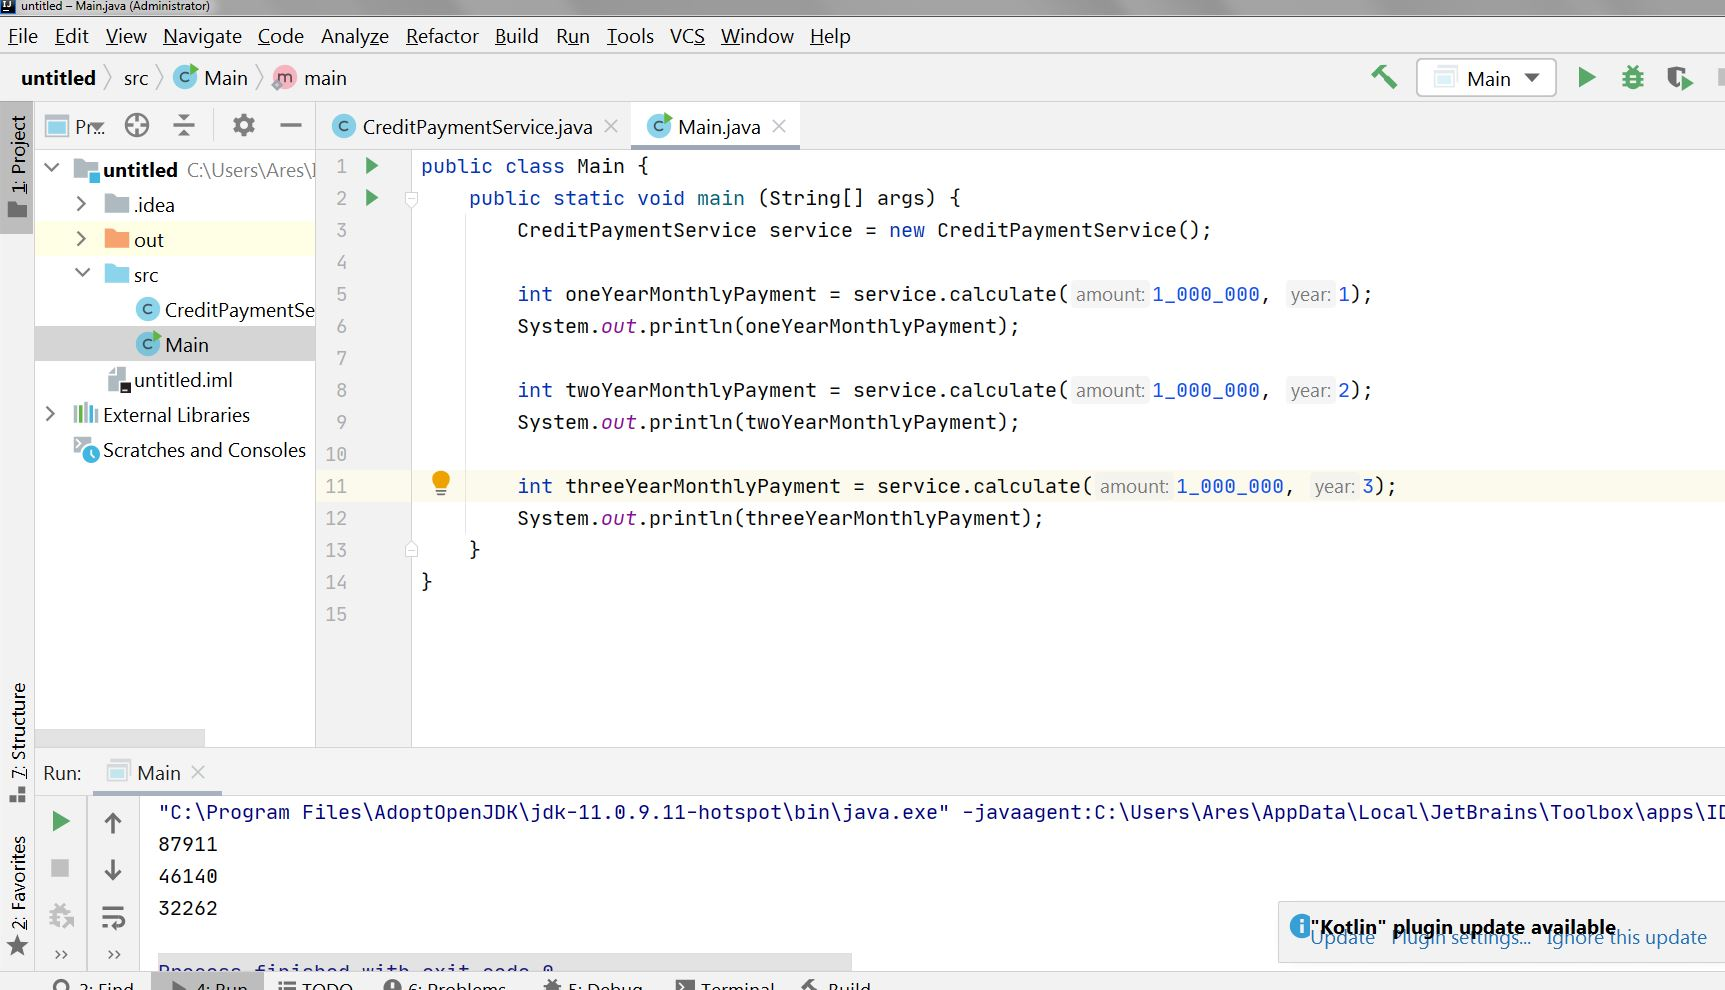
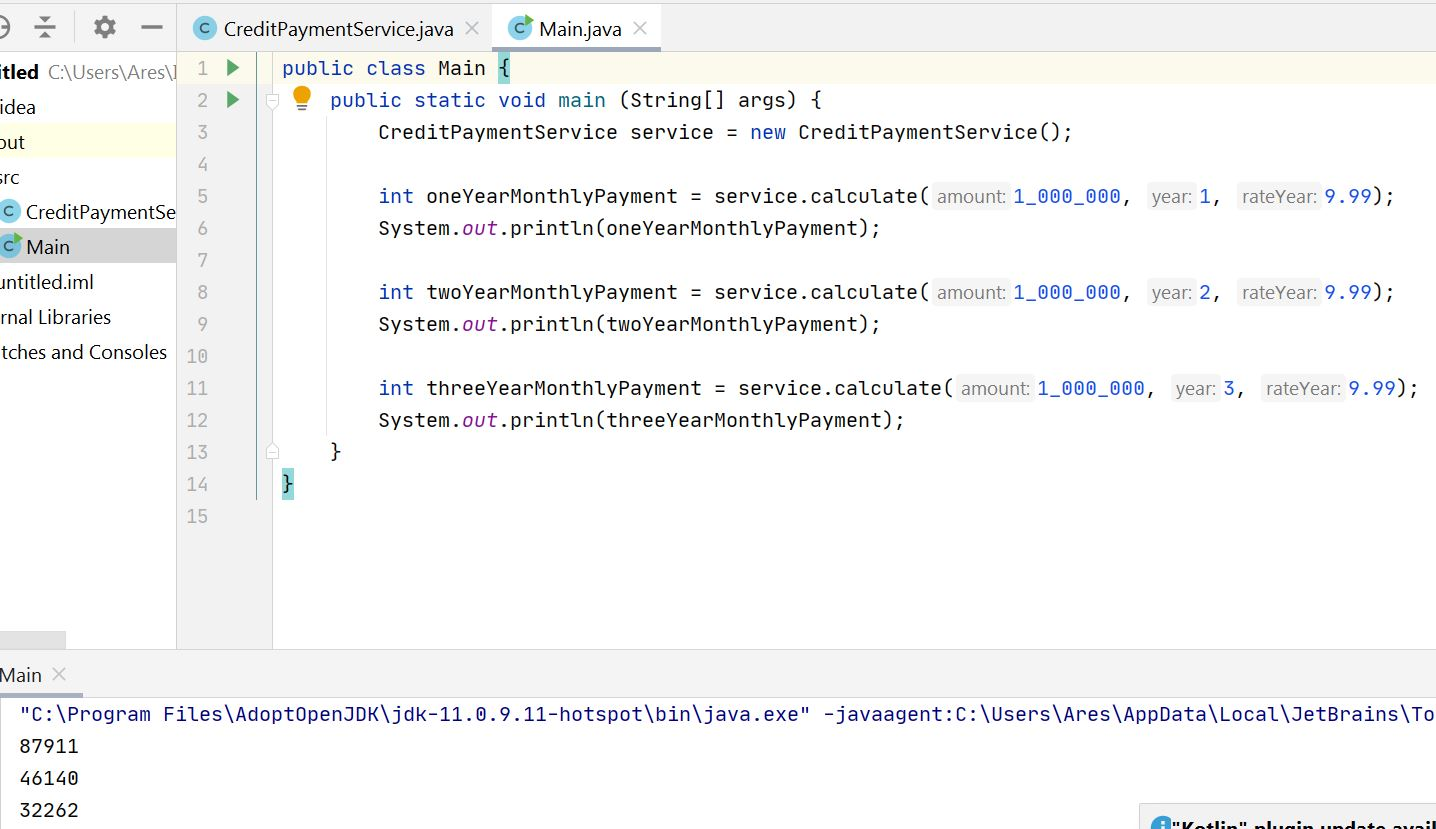
Camel

diff --git a/CreditPaymentService.java b/CreditPaymentService.java
@@ -1,12 +1,14 @@
 import java.lang.Math;
 
 public class CreditPaymentService {
-    public int calculate (int amount, int year) {
+    public int calculate (int amount, int year, double rateYear) {
         int month = year * 12;
-        double rateYear = 9.99;
         double rateMonth = rateYear / 12.0 / 100.0;
         double coefficient = rateMonth * Math.pow(1 + rateMonth, month) / (Math.pow (1 + rateMonth, month) - 1);
         double monthlyPayment = coefficient * amount;
         return (int)monthlyPayment;
     }
+    //K = i * (1 + i)n / ((1 + i)n - 1), где:
+    //i — месячная процентная ставка (годовая ставка / 12 / 100);
+    //n — количество месяцев, в течение которых выплачивается кредит.
 }

diff --git a/Main.java b/Main.java
@@ -2,13 +2,13 @@ public class Main {
     public static void main (String[] args) {
         CreditPaymentService service = new CreditPaymentService();
 
-        int oneYearMonthlyPayment = service.calculate(1_000_000, 1);
+        int oneYearMonthlyPayment = service.calculate(1_000_000, 1, 9.99);
         System.out.println(oneYearMonthlyPayment);
 
-        int twoYearMonthlyPayment = service.calculate(1_000_000, 2);
+        int twoYearMonthlyPayment = service.calculate(1_000_000, 2, 9.99);
         System.out.println(twoYearMonthlyPayment);
 
-        int threeYearMonthlyPayment = service.calculate(1_000_000, 3);
+        int threeYearMonthlyPayment = service.calculate(1_000_000, 3, 9.99);
         System.out.println(threeYearMonthlyPayment);
     }
 }
